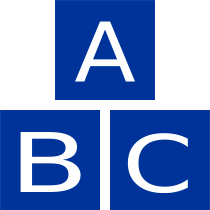
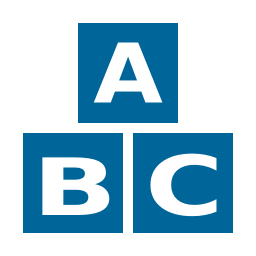
temp

diff --git a/litefac_launchpad/templates/index.html b/litefac_launchpad/templates/index.html
@@ -50,7 +50,7 @@
       <!-- Three columns of text below the carousel -->
       <div class="row">
         <div class="col-lg-3">
-          <img class='img-rounded' src="{{ url_for('static', filename='images/abc.svg') }}" alt="Generic placeholder image">
+          <img class='img-rounded' src="{{ url_for('static', filename='images/abc.png') }}" alt="Generic placeholder image">
           <h2>简单易用</h2>
           <p>和别的厂家不同, 我们专门为您的工厂进行开发定制, 只提供适应实际生产状况的解决方案。</p>
         </div>
